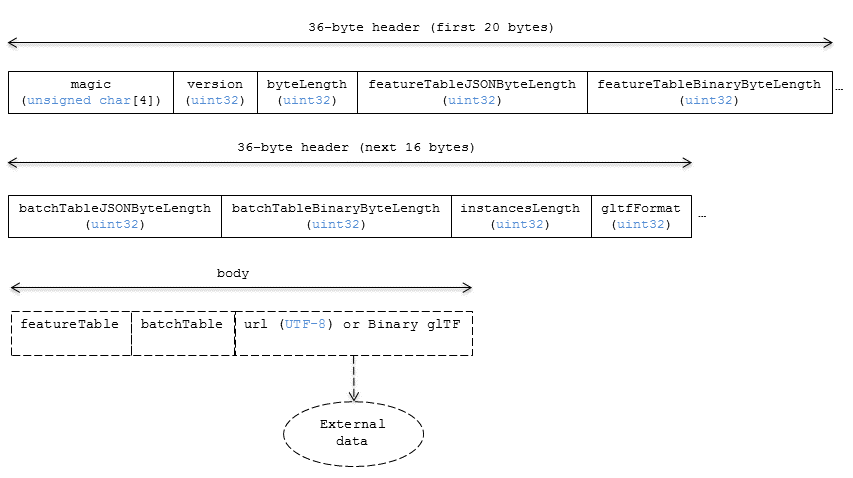
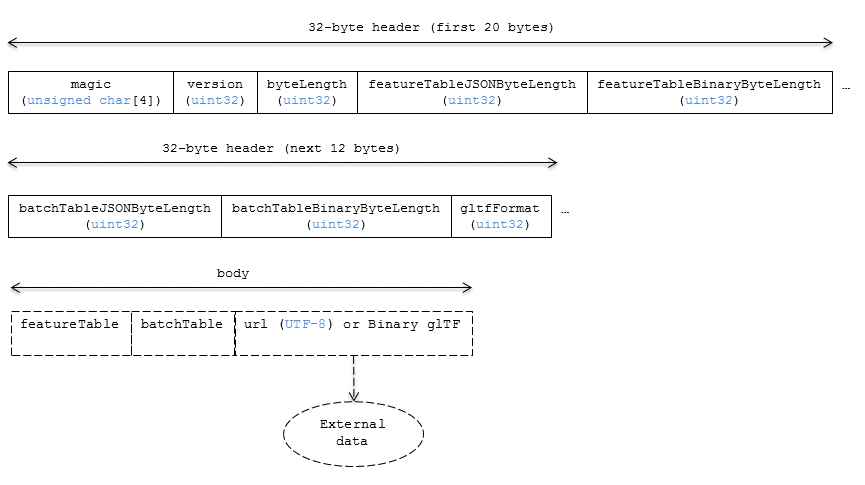
Header consistency fixes

diff --git a/TileFormats/Instanced3DModel/README.md b/TileFormats/Instanced3DModel/README.md
@@ -26,7 +26,7 @@ A tile is composed of a header section immediately followed by a body section.
 
 ## Header
 
-The 36-byte header contains the following fields:
+The 32-byte header contains the following fields:
 
 | Field name | Data type | Description |
 | --- | --- | --- |
@@ -37,10 +37,9 @@ The 36-byte header contains the following fields:
 | `featureTableBinaryByteLength` | `uint32` | The length of the feature table binary section in bytes. If `featureTableJSONByteLength` is zero, this will also be zero. |
 | `batchTableJSONByteLength` | `uint32` | The length of the batch table JSON section in bytes. Zero indicates that there is no batch table. |
 | `batchTableBinaryByteLength` | `uint32` | The length of the batch table binary section in bytes. If `batchTableJSONByteLength` is zero, this will also be zero. |
-| `gltfByteLength` | `uint32` | The length of the glTF field in bytes. |
 | `gltfFormat` | `uint32` | Indicates the format of the glTF field of the body.  `0` indicates it is a url, `1` indicates it is embedded binary glTF.  See the glTF section below. |
 
-If either `featureTableJSONByteLength` or `gltfByteLength` equal zero, the tile does not need to be rendered.
+If `featureTableJSONByteLength` equals zero, or there is no `glTF`, the tile does not need to be rendered.
 
 The body section immediately follows the header section, and is composed of three fields: `Feature Table`, `Batch Table`, and `glTF`.
 
